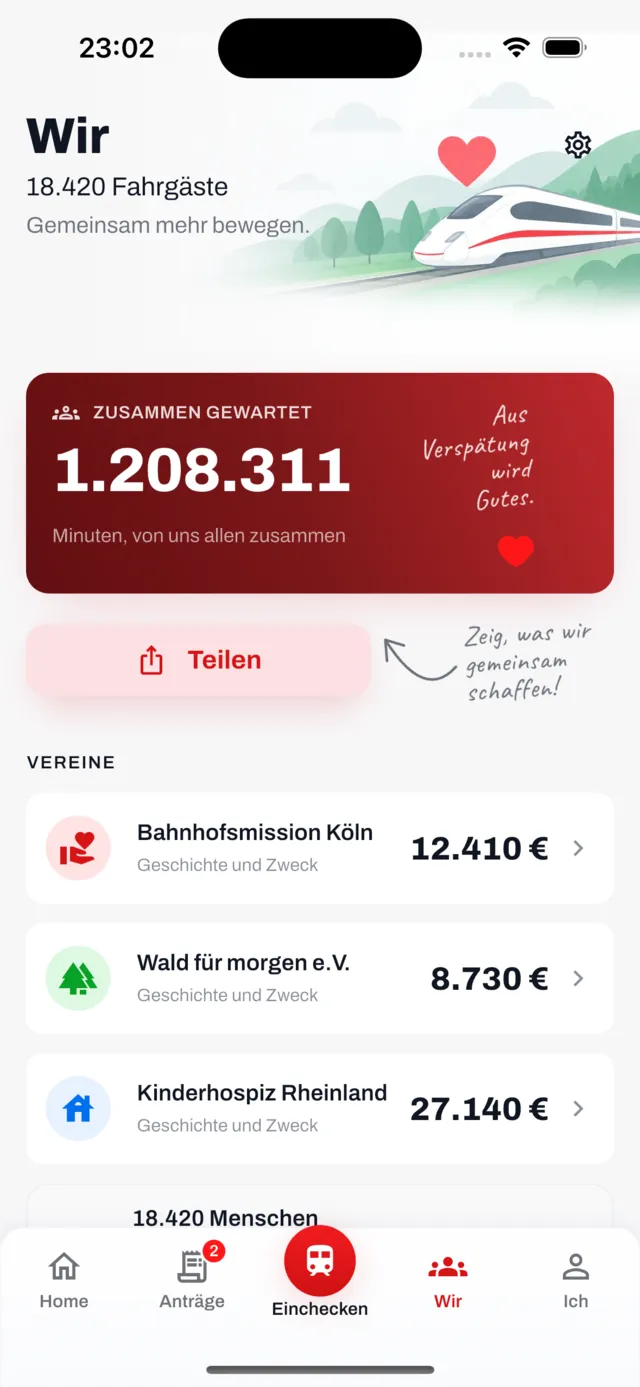
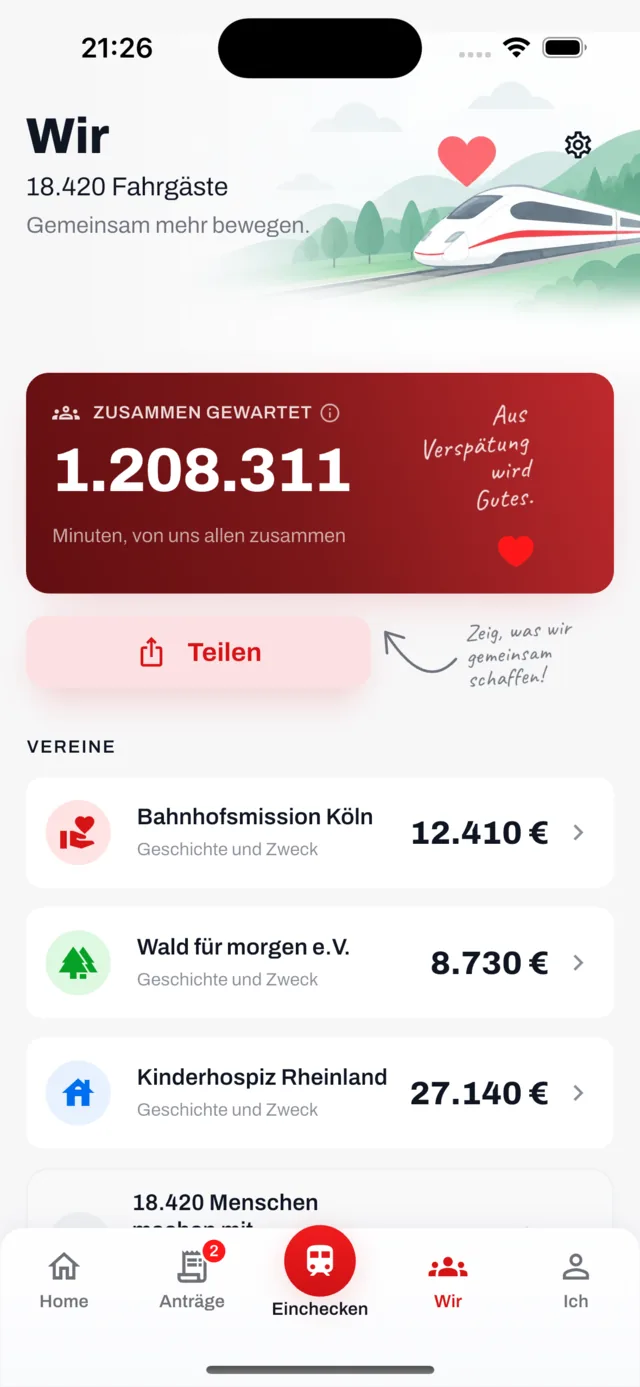
Die große Zahl sagt jetzt, dass sie sich erklärt — und die Handschrift wird nicht mehr beschnitten
Zwei Sachen auf den Brettern, die Johannes gefunden hat.

Das ⓘ hinter dem Label: die Bretter auf Home und Wir öffnen „Woher weißt du
das?", aber nichts hat das gezeigt — die Antwort lag hinter einem Tippen, das
niemand probieren musste (docs/13). Das Zeichen sitzt beim Label, nicht in der
Ecke des Bretts: so bleibt es bei den Worten, zu denen es gehört, und kann der
Handschrift auf der rechten Seite nicht ins Gehege kommen. Bretter ohne Sheet
bekommen keins.

Die Handschrift: Caveat läuft mit ihrer Tinte über die Vorschubbreiten hinaus,
in denen der Satz gemessen wird. Text schneidet standardmäßig auf seine Box —
also war der letzte Buchstabe jeder Zeile angeschnitten, „Gutes." ohne Punkt und
„Verspätung" ohne den Schwung des g. Die Tinte darf jetzt aus der Box heraus; die
Box ist ein Maß, kein Rahmen. Und wenn der Platz wirklich nicht reicht (schmales
Telefon, große Systemschrift), skaliert die Notiz als Block herunter, statt ein
Wort zu brechen — der alte Umbruch-Zweig war toter Code, weil er nur bei
endlicher Messbreite lief.

Website-Aufnahmen nachgezogen: Home und Wir zeigen das Zeichen.

Claude-Session: https://claude.ai/code/session_01D7eaa6RctNutFMwCGZsL1o

diff --git a/app/lib/widgets/hand.dart b/app/lib/widgets/hand.dart
@@ -43,8 +43,9 @@ import '../theme/tokens.dart';
 /// rotation to the parent as a surprise. It measures the text with a [TextPainter], computes the
 /// rotated bounds (`w·|cos| + h·|sin|` by `w·|sin| + h·|cos|`) and reports *those* as its size,
 /// with the note centred inside. It therefore occupies exactly what it paints, and a [Column]
-/// above or below it keeps its gap. If the rotated width would not fit the incoming constraints
-/// the text is re-wrapped narrower rather than clipped — a hand note wraps, it never ellipsises.
+/// above or below it keeps its gap. If the rotated block would not fit the incoming constraints
+/// the whole note is scaled down to fit: it keeps the lines it was written with, because a hand
+/// note is never re-wrapped, never ellipsised and never cut.
 ///
 /// **What the mockups measure.** Two different tilts live in those files and only one of them is
 /// rotation. Every line of every note rises to the right — baseline fits give −8.1° ("Gutes." on
@@ -113,48 +114,64 @@ class VHandNote extends StatelessWidget {
           textScaler: scaler,
         );
 
-        // Measured unwrapped: the width the note asks for is the width of its longest
-        // authored line, and the caller gives it that or the note overhangs — which on a board is
-        // fine, because the board is wider than the column the note sits in.
-        final ceiling = double.infinity;
-        painter.layout(maxWidth: ceiling);
-        var width = painter.width;
-        var height = painter.height + _inkSlack(span, direction, scaler, ceiling);
+        // Measured unwrapped: the width the note asks for is the width of its longest authored
+        // line. A line is never re-wrapped to fit — „Verspätung" broken into „Verspätun" and „g"
+        // is not handwriting, it is a fault — so if the space is too small the whole block is
+        // scaled down below instead.
+        painter.layout();
+        final width = painter.width;
+        final height = painter.height + _inkSlack(span, direction, scaler, double.infinity);
 
         final sin = math.sin(angle).abs();
         final cos = math.cos(angle).abs();
 
-        // Re-wrap if the rotated block would not fit. The height is what the rotation borrows
-        // from the width, so subtract it and lay the text out again.
-        if (sin > 0 && ceiling.isFinite && width * cos + height * sin > ceiling) {
-          painter.layout(maxWidth: math.max(0, ceiling - height * sin));
-          width = painter.width;
-          height = painter.height + _inkSlack(span, direction, scaler, ceiling);
-        }
-
         final rotated = Size(width * cos + height * sin, width * sin + height * cos);
         painter.dispose();
 
-        return Semantics(
-          label: text.replaceAll('\n', ' '),
-          child: ExcludeSemantics(
-            child: SizedBox(
-              width: rotated.width,
-              height: rotated.height,
-              child: Center(
-                child: Transform.rotate(
-                  angle: angle,
-                  // The child is given the painter's own width so it breaks exactly where the
-                  // measurement said it would; the rotation then pivots about that box's centre,
-                  // which is the centre of the SizedBox, so the painted bounds fill it exactly.
-                  child: SizedBox(
-                    width: width,
-                    child: Text(text, style: style, textAlign: align, softWrap: false),
-                  ),
+        Widget note = SizedBox(
+          width: rotated.width,
+          height: rotated.height,
+          child: Center(
+            child: Transform.rotate(
+              angle: angle,
+              // The child is given the painter's own width so it breaks exactly where the
+              // measurement said it would; the rotation then pivots about that box's centre,
+              // which is the centre of the SizedBox, so the painted bounds fill it exactly.
+              child: SizedBox(
+                width: width,
+                child: Text(
+                  text,
+                  style: style,
+                  textAlign: align,
+                  softWrap: false,
+                  // Caveat is a script: its letters lean into each other and their ink runs past
+                  // the advance widths the layout is measured in, on the last letter of a line by
+                  // a point or two. Text clips to its box by default, so the note came out shaved
+                  // down the right edge — „Gutes." lost its full stop, „Verspätung" the tail of
+                  // its g. The ink is allowed out of the box instead; the box is a measurement,
+                  // not a frame.
+                  overflow: TextOverflow.visible,
                 ),
               ),
             ),
           ),
+        );
+
+        // Too little room — a narrow phone, or large system text. The note shrinks as a block and
+        // keeps the lines the designer drew, which is what handwriting on a small page does. It
+        // never breaks a word and never gets cut.
+        if (constraints.hasBoundedWidth && rotated.width > constraints.maxWidth) {
+          final scale = constraints.maxWidth / rotated.width;
+          note = SizedBox(
+            width: constraints.maxWidth,
+            height: rotated.height * scale,
+            child: FittedBox(fit: BoxFit.contain, child: note),
+          );
+        }
+
+        return Semantics(
+          label: text.replaceAll('\n', ' '),
+          child: ExcludeSemantics(child: note),
         );
       },
     );

diff --git a/app/test/board_mark_and_note_test.dart b/app/test/board_mark_and_note_test.dart
@@ -1,0 +1,79 @@
+import 'package:flutter/material.dart';
+import 'package:flutter_test/flutter_test.dart';
+import 'package:verspaetomat/theme/tokens.dart';
+import 'package:verspaetomat/widgets/kit.dart';
+
+/// Two things Johannes found on the boards: the figure said nowhere that it explains itself, and
+/// the handwritten note beside it came out shaved off on the right.
+void main() {
+  Widget board({VoidCallback? onTap, Widget? aside}) => MaterialApp(
+        home: Scaffold(
+          body: VBoard(
+            onTap: onTap,
+            aside: aside,
+            child: const Column(
+              crossAxisAlignment: CrossAxisAlignment.start,
+              children: [VBoardLabel('Minuten haben wir gewartet', icon: Icons.schedule)],
+            ),
+          ),
+        ),
+      );
+
+  Finder mark() => find.byWidgetPredicate((w) => w is Icon && w.icon == Icons.info_outline);
+
+  testWidgets('a board that opens its source sheet says so with a mark', (tester) async {
+    await tester.pumpWidget(board(onTap: () {}));
+    expect(mark(), findsOneWidget);
+  });
+
+  testWidgets('a board that opens nothing carries no mark', (tester) async {
+    await tester.pumpWidget(board());
+    expect(mark(), findsNothing);
+  });
+
+  testWidgets('the note keeps its ink: nothing is clipped to the measured box', (tester) async {
+    await tester.pumpWidget(board(
+      onTap: () {},
+      aside: const VHandNote('Aus\nVerspätung\nwird\nGutes.', angle: -0.09, align: TextAlign.right),
+    ));
+    final text = tester.widget<Text>(find.text('Aus\nVerspätung\nwird\nGutes.'));
+    expect(text.overflow, TextOverflow.visible, reason: 'a script face paints past its advance widths');
+  });
+
+  testWidgets('a note too wide for its space shrinks instead of being cut or broken', (tester) async {
+    const note = VHandNote('Aus\nVerspätung\nwird\nGutes.', angle: -0.09, align: TextAlign.right);
+    await tester.pumpWidget(const MaterialApp(
+      home: Scaffold(body: Align(alignment: Alignment.topLeft, child: SizedBox(width: 400, child: note))),
+    ));
+    final wide = tester.getSize(find.byType(VHandNote));
+
+    await tester.pumpWidget(const MaterialApp(
+      home: Scaffold(body: Align(alignment: Alignment.topLeft, child: SizedBox(width: 40, child: note))),
+    ));
+    final tight = tester.getSize(find.byType(VHandNote));
+
+    expect(tight.width, lessThanOrEqualTo(40), reason: 'it fits the space it is given');
+    expect(tight.height, lessThan(wide.height), reason: 'the whole block scales, lines and all');
+    // Still the four lines it was written with, not a re-wrap and not an ellipsis.
+    expect(find.text('Aus\nVerspätung\nwird\nGutes.'), findsOneWidget);
+  });
+
+  testWidgets('the mark survives a label too long for the board', (tester) async {
+    tester.view.physicalSize = const Size(320 * 3, 600 * 3);
+    tester.view.devicePixelRatio = 3;
+    addTearDown(tester.view.reset);
+    await tester.pumpWidget(MaterialApp(
+      home: Scaffold(
+        body: Padding(
+          padding: const EdgeInsets.symmetric(horizontal: VSpace.page),
+          child: VBoard(
+            onTap: () {},
+            child: const VBoardLabel('Ein Label, das viel zu lang ist für dieses Brett', icon: Icons.schedule),
+          ),
+        ),
+      ),
+    ));
+    expect(mark(), findsOneWidget);
+    expect(tester.getSize(mark()).width, greaterThan(0));
+  });
+}

diff --git a/app/lib/widgets/surfaces.dart b/app/lib/widgets/surfaces.dart
@@ -223,7 +223,7 @@ class VBoard extends StatelessWidget {
     if (onTap == null) return box;
     return Stack(
       children: [
-        box,
+        _BoardExplains(child: box),
         Positioned.fill(
           child: Material(
             color: Colors.transparent,
@@ -240,7 +240,24 @@ class VBoard extends StatelessWidget {
   }
 }
 
+/// Marks the space inside a [VBoard] that answers „Woher weißt du das?" when it is tapped, so the
+/// label over the figure can say so with its own small mark.
+class _BoardExplains extends InheritedWidget {
+  const _BoardExplains({required super.child});
+
+  static bool of(BuildContext context) => context.dependOnInheritedWidgetOfExactType<_BoardExplains>() != null;
+
+  @override
+  bool updateShouldNotify(_BoardExplains oldWidget) => false;
+}
+
 /// The label over a board's figure. Small caps, quiet, with an optional glyph in front of it.
+///
+/// Inside a board that opens its source sheet, the label ends in a small ⓘ. Every figure in the
+/// app is meant to answer where it comes from (docs/13) and the big ones do — but the boards
+/// carried nothing that said so, so the answer sat behind a tap nobody had a reason to try. The
+/// mark is the label's, not the board's corner: it stays beside the words it belongs to at any
+/// text size, and it cannot land on the handwritten note that shares the board's right-hand side.
 class VBoardLabel extends StatelessWidget {
   const VBoardLabel(this.text, {super.key, this.icon, this.look = VBoardLook.dark});
   final String text;
@@ -250,14 +267,23 @@ class VBoardLabel extends StatelessWidget {
   @override
   Widget build(BuildContext context) {
     final style = VText.eyebrow.copyWith(color: VColors.inkOnDark2);
-    if (icon == null) return Text(text.toUpperCase(), style: style);
+    final explains = _BoardExplains.of(context);
+    if (icon == null && !explains) return Text(text.toUpperCase(), style: style);
     return Row(
       children: [
-        Icon(icon, size: 17, color: VColors.inkOnDark2),
-        const SizedBox(width: VSpace.s),
+        if (icon != null) ...[
+          Icon(icon, size: 17, color: VColors.inkOnDark2),
+          const SizedBox(width: VSpace.s),
+        ],
         Flexible(
           child: Text(text.toUpperCase(), style: style, maxLines: 1, overflow: TextOverflow.ellipsis),
         ),
+        // Quieter than the label: the figure and its name come first, the offer to explain them
+        // second. Outside the Flexible, so a long label loses its own end rather than the mark.
+        if (explains) ...[
+          const SizedBox(width: VSpace.xs),
+          const Icon(Icons.info_outline, size: 14, color: VColors.inkOnDark3),
+        ],
       ],
     );
   }
